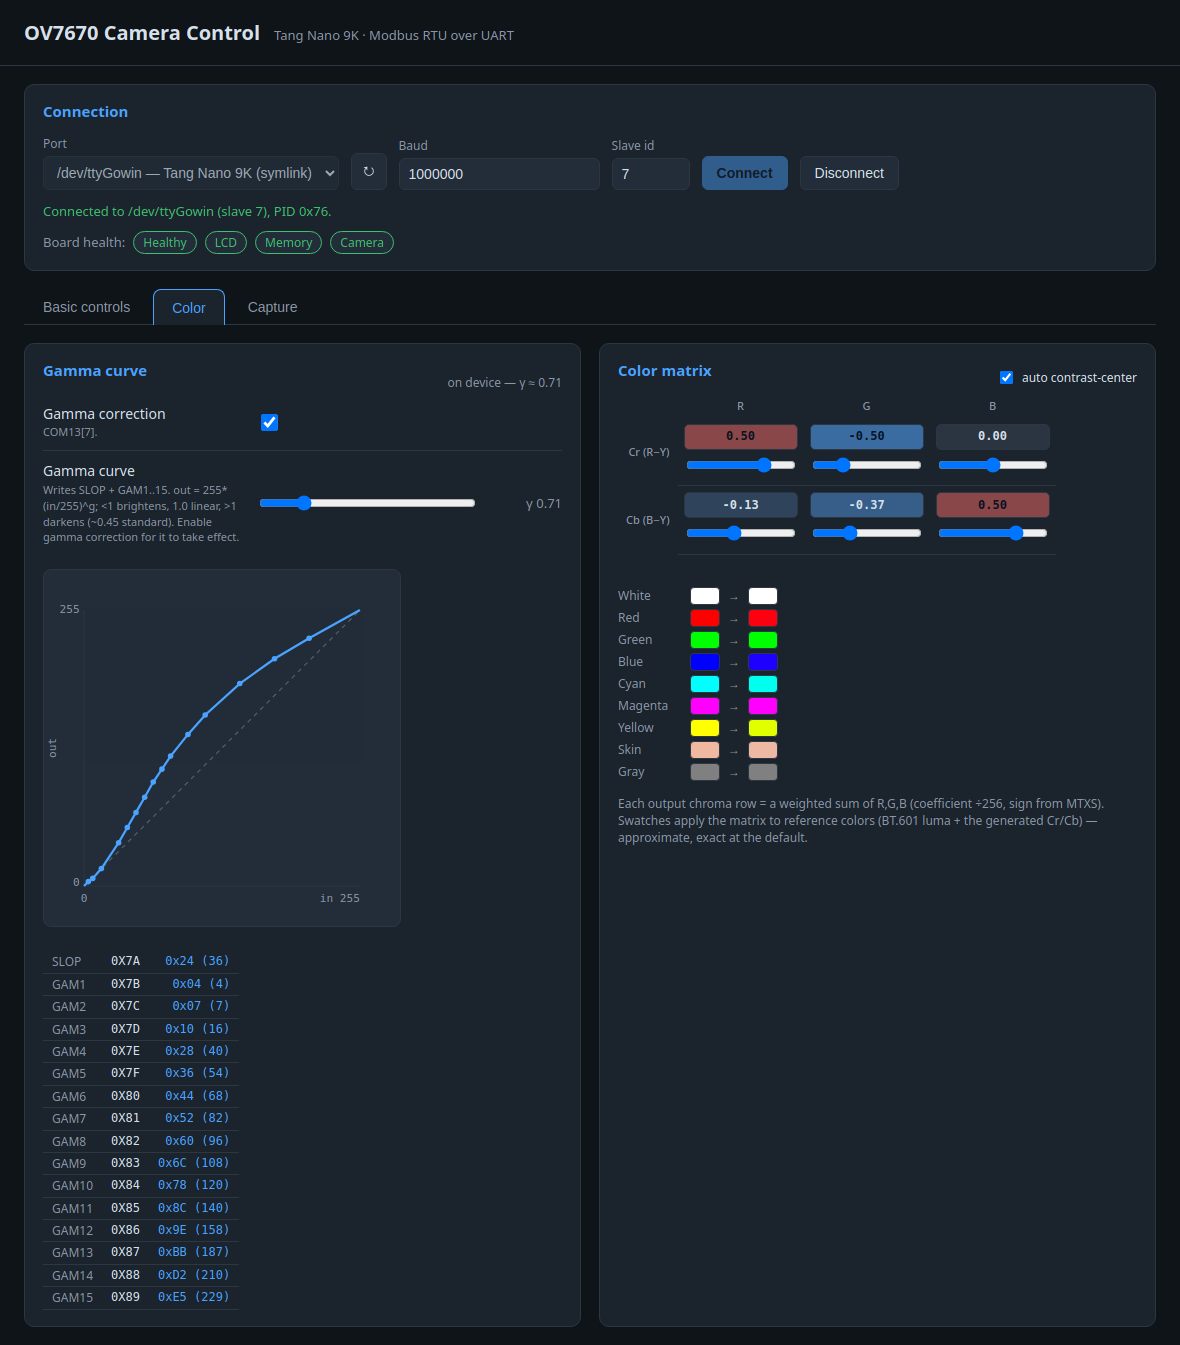
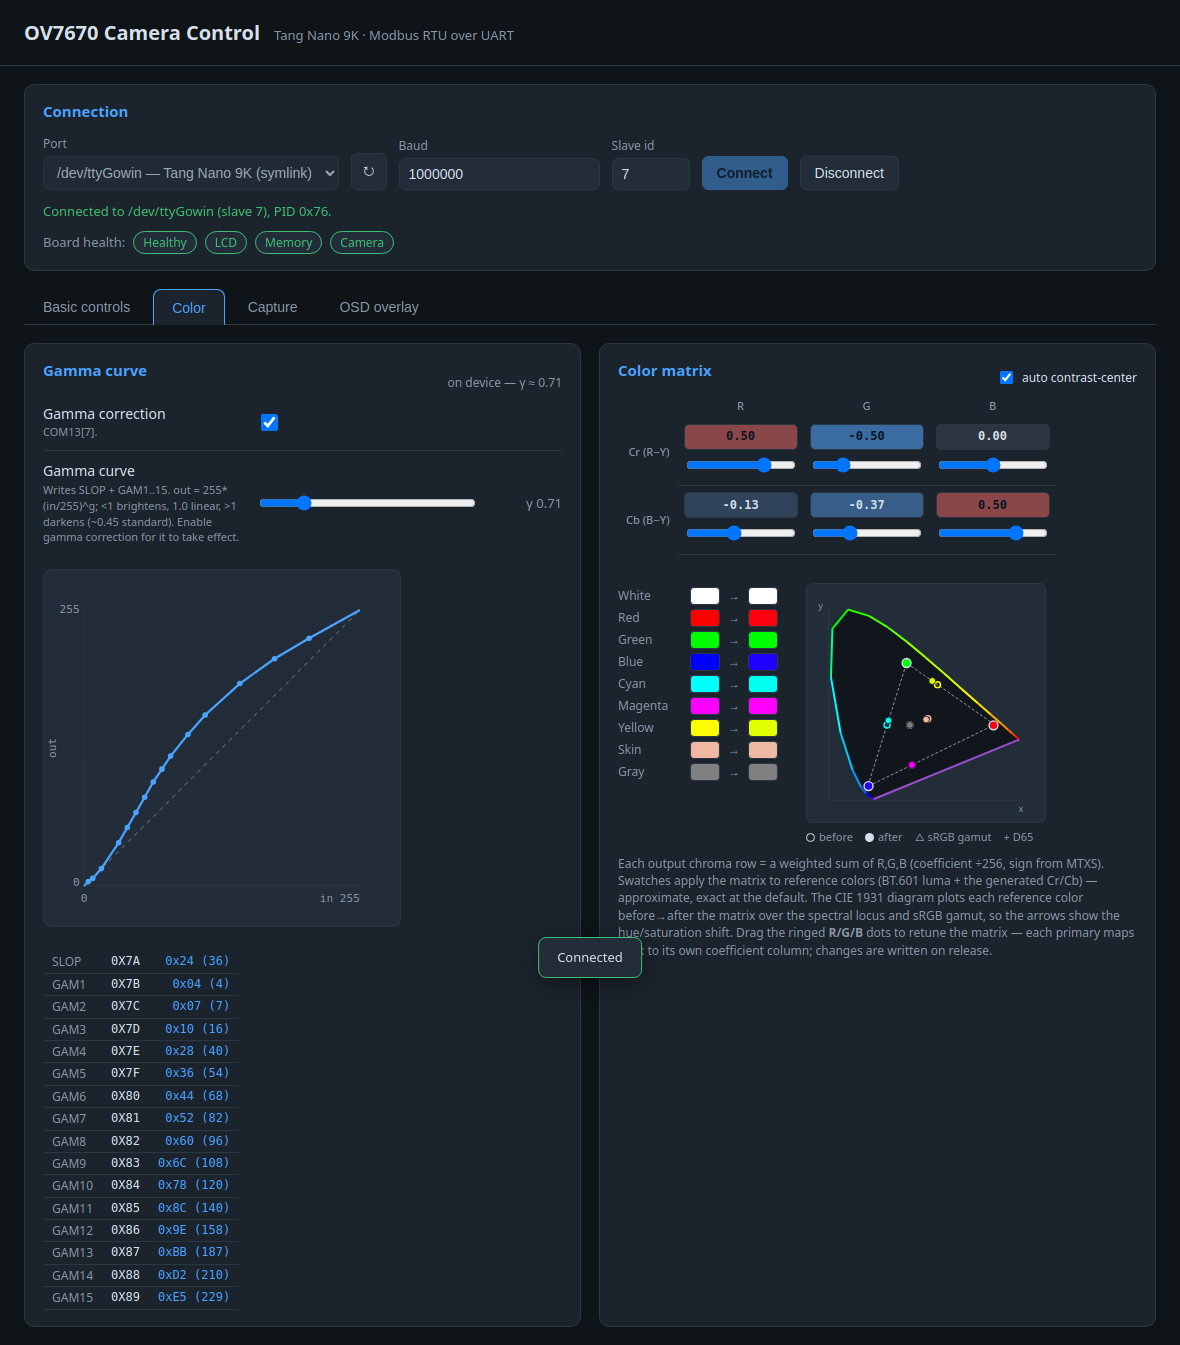
Update webapp manual: OSD overlay tab + interactive chromaticity diagram
Add the OSD overlay section (60x17 editor with the reject-on-overflow cap and
the Row/Col cursor caption, the special-symbols + pseudographics palettes,
Send/Clear/Show-overlay, and the Draw sparrow/car demos). Extend the Color
matrix entry to cover the CIE 1931 chromaticity diagram and dragging the R/G/B
primaries to retune the matrix. Bump "three tabs" to four.

Regenerate the screenshots against a live board (now showing the 4-tab nav, the
chromaticity diagram, a real grabbed frame) and add webapp_osd.png.

diff --git a/doc/webapp_manual.md b/doc/webapp_manual.md
@@ -22,8 +22,8 @@ Pick the serial **Port** (auto-detected, plus the `/dev/ttyGowin` symlink), set
 **Baud** (1000000) and **Slave id** (7), and press **Connect**. The connect step
 sanity-reads the Product ID, so a successful connect confirms the link end-to-end.
 
-Once connected, three tabs appear (**Basic controls**, **Color**, **Capture**)
-and a **Board health** row is shown under the connection status.
+Once connected, four tabs appear (**Basic controls**, **Color**, **Capture**,
+**OSD overlay**) and a **Board health** row is shown under the connection status.
 
 ![Basic controls tab](images/webapp_basic.png)
 
@@ -58,7 +58,13 @@ See [host_control.md](host_control.md#board-health-watchdog) for the bit layout.
 - **Color matrix** — the 2×3 chroma matrix (MTX1–6 with signs from MTXS) as a
   signed heat-map grid with per-cell sliders and an *auto contrast-center*
   toggle. The reference-color swatches show each input color mapped through the
-  current matrix (approximate; exact at the default).
+  current matrix (approximate; exact at the default). Beside them is a **CIE 1931
+  chromaticity diagram** (spectral-locus horseshoe + sRGB gamut triangle + D65)
+  that plots every reference color *before → after* the matrix, so the arrows
+  show the hue/saturation shift. The diagram is **interactive**: drag the ringed
+  **R / G / B** dots to retune the matrix — each primary maps back to its own
+  coefficient column, and the changed coefficients are written to the camera on
+  release.
 
 ## Capture
 
@@ -70,6 +76,29 @@ with a **Cancel** button; when it finishes the frame is drawn to the canvas and 
 **Save PNG** link appears. The bus is busy for the whole download. See
 [video_datapath.md](video_datapath.md#frame-grab-and-host-download) for how the
 capture/stream works in hardware.
+
+## OSD overlay
+
+![OSD overlay tab](images/webapp_osd.png)
+
+The on-screen-display layer paints white **8×16 font** text over the live video
+on the LCD (see [host_control.md](host_control.md#osd-text-overlay)). The tab is
+a small editor for it:
+
+- **Text editor** — one input line per screen row, capped at the **60 columns ×
+  17 rows** of the grid (overflowing edits are rejected rather than truncated, so
+  a delete that would merge two full rows can't swallow the next one). The
+  caption shows the cursor's grid position (**Row R/17 · Col C/60**).
+- **Special symbols** / **Pseudographics** palettes — click a glyph to insert it
+  at the cursor: Latin-1 symbols (°, ±, µ, ©, …) and box-drawing / block
+  characters (─ │ ┌ ═ █ ░ …) that are awkward or impossible to type.
+- **Send to display** writes the text (and the **Show overlay** toggle controls
+  whether it's visible); **Clear** blanks the buffer.
+- **Draw sparrow** / **Draw car** drop in ready-made ASCII-art pictures as a
+  one-click demo of the font and pseudographics.
+
+The character buffer crosses to the LCD clock domain in hardware, so the text
+appears composited over the camera image in real time.
 
 ## Resilience
 
